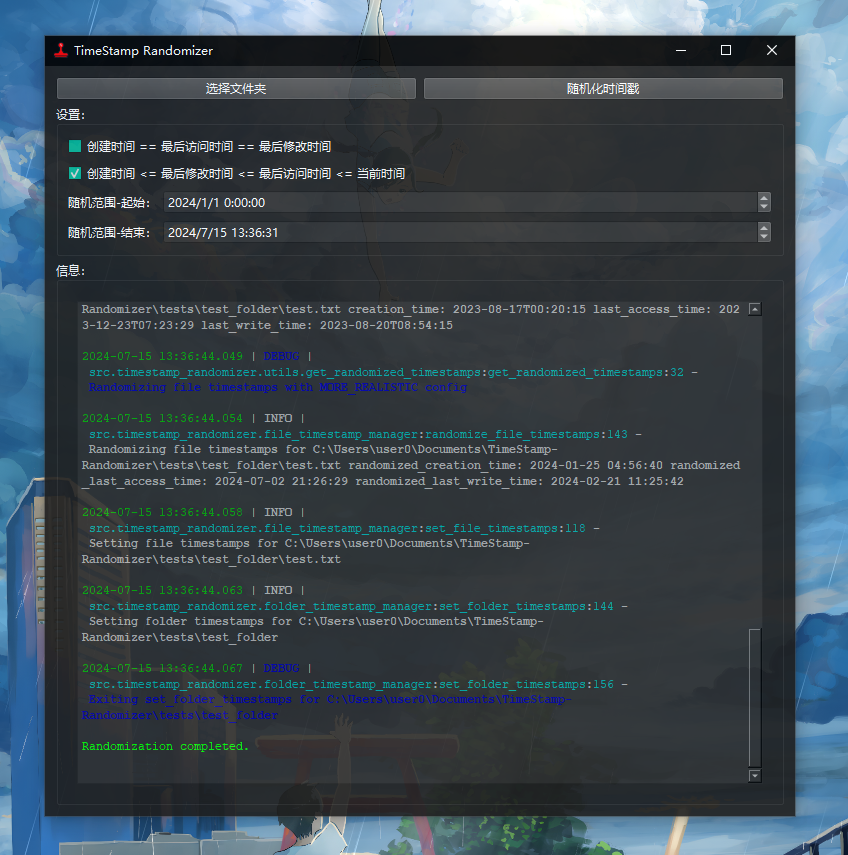
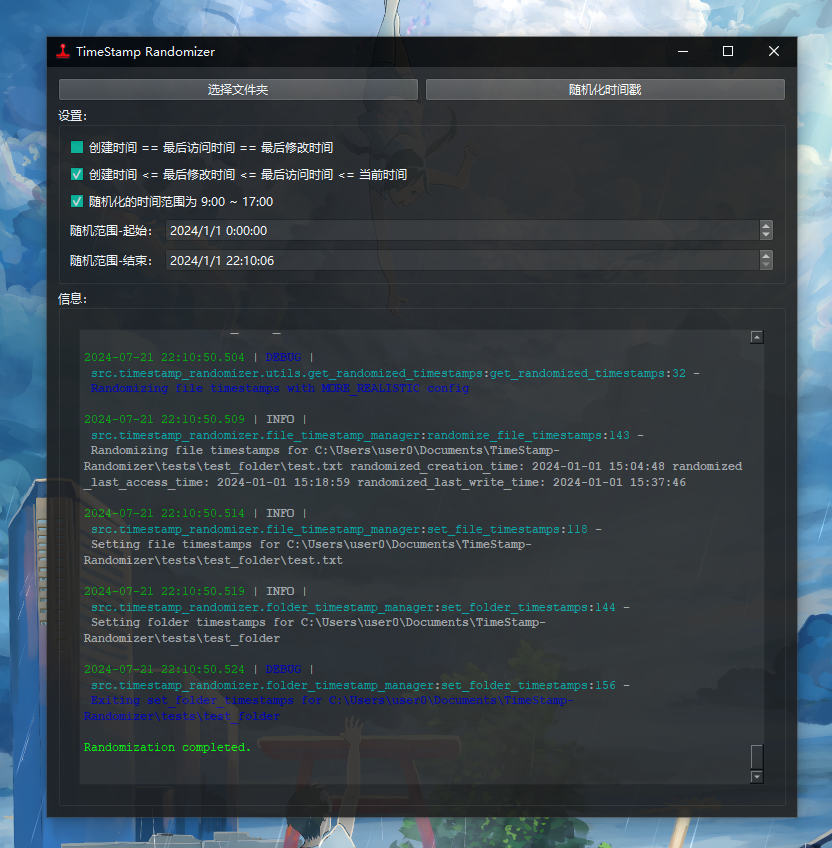
新增 可选设置 随机化的时间范围为 9:00 ~ 17:00（朝九晚五，规律作息）

Changed region(s): [[0.0, 0.0, 1.0, 1.0], [0.875, 0.8585, 0.9062, 0.9198], [0.875, 0.7358, 0.9062, 0.7665]]

diff --git a/src/gui/resources/Ui_timestamp_randomizer.py b/src/gui/resources/Ui_timestamp_randomizer.py
@@ -65,6 +65,12 @@ class Ui_Form(object):
 
         self.verticalLayout.addWidget(self.checkBox_more_realistic)
 
+        self.checkBox_nine_to_five = QCheckBox(self.groupBox_2)
+        self.checkBox_nine_to_five.setObjectName(u"checkBox_nine_to_five")
+        self.checkBox_nine_to_five.setChecked(True)
+
+        self.verticalLayout.addWidget(self.checkBox_nine_to_five)
+
         self.horizontalLayout_2 = QHBoxLayout()
         self.horizontalLayout_2.setObjectName(u"horizontalLayout_2")
         self.label = QLabel(self.groupBox_2)
@@ -131,6 +137,7 @@ class Ui_Form(object):
         self.groupBox_2.setTitle(QCoreApplication.translate("Form", u"\u8bbe\u7f6e\uff1a", None))
         self.checkBox_same_caw.setText(QCoreApplication.translate("Form", u"\u521b\u5efa\u65f6\u95f4 == \u6700\u540e\u8bbf\u95ee\u65f6\u95f4 == \u6700\u540e\u4fee\u6539\u65f6\u95f4", None))
         self.checkBox_more_realistic.setText(QCoreApplication.translate("Form", u"\u521b\u5efa\u65f6\u95f4 <= \u6700\u540e\u4fee\u6539\u65f6\u95f4 <= \u6700\u540e\u8bbf\u95ee\u65f6\u95f4 <= \u5f53\u524d\u65f6\u95f4", None))
+        self.checkBox_nine_to_five.setText(QCoreApplication.translate("Form", u"\u968f\u673a\u5316\u7684\u65f6\u95f4\u8303\u56f4\u4e3a 9:00 ~ 17:00", None))
         self.label.setText(QCoreApplication.translate("Form", u"\u968f\u673a\u8303\u56f4-\u8d77\u59cb\uff1a", None))
         self.dateTimeEdit_start_date.setDisplayFormat(QCoreApplication.translate("Form", u"yyyy/M/d H:mm:ss", None))
         self.label_2.setText(QCoreApplication.translate("Form", u"\u968f\u673a\u8303\u56f4-\u7ed3\u675f\uff1a", None))

diff --git a/src/timestamp_randomizer/utils/get_randomized_timestamps.py b/src/timestamp_randomizer/utils/get_randomized_timestamps.py
@@ -32,16 +32,13 @@ def get_randomized_timestamps(
         logger.debug("Randomizing file timestamps with MORE_REALISTIC config")
 
         now = datetime.now()
-        if start_date <= end_date <= now:
-            pass
-        if end_date > now:
-            end_date = now
-        if start_date > now:
-            start_date = now
-
+        creation_time: datetime = get_randomized_date(start_date, end_date)
         last_access_time: datetime = get_randomized_date(start_date, end_date)
-        last_write_time: datetime = get_randomized_date(start_date, last_access_time)
-        creation_time: datetime = get_randomized_date(start_date, last_write_time)
+        last_write_time: datetime = get_randomized_date(start_date, end_date)
+
+        creation_time, last_access_time, last_write_time, _ = sorted(
+            [creation_time, last_access_time, last_write_time, now]
+        )
     else:
         # 随机化所有时间戳
         creation_time: datetime = get_randomized_date(start_date, end_date)

diff --git a/src/timestamp_randomizer/utils/get_randomized_date.py b/src/timestamp_randomizer/utils/get_randomized_date.py
@@ -1,6 +1,8 @@
 import random
 from datetime import datetime, timedelta
 
+from ..config import RandomizeConfig
+
 
 def get_randomized_date(
     start_date: datetime = datetime(datetime.now().year, 1, 1, 0, 0, 0),
@@ -16,5 +18,14 @@ def get_randomized_date(
     seconds_between_date: int = abs(int((end_date - start_date).total_seconds()))
     random_seconds: int = random.randrange(seconds_between_date)
     random_date: datetime = start_date + timedelta(seconds=random_seconds)
+    if RandomizeConfig.NINE_TO_FIVE:
+        # 随机化的时间范围为 9:00 ~ 17:00
+        if random_date.hour < 9:
+            random_hour: int = random.randrange(max(9, start_date.hour), 17)
+        elif random_date.hour > 17:
+            random_hour: int = random.randrange(9, min(17, end_date.hour))
+        else:
+            random_hour: int = random_date.hour
+        random_date: datetime = random_date.replace(hour=random_hour)
     # logger.debug(f"Random date: {random_date}")
     return random_date

diff --git a/src/gui/main.py b/src/gui/main.py
@@ -35,6 +35,7 @@ class MainWindow(QWidget, Ui_Form):
         self.checkBox_more_realistic.stateChanged.connect(
             self.on_more_realistic_changed
         )
+        self.checkBox_nine_to_five.stateChanged.connect(self.on_nine_to_five_changed)
 
     def on_same_caw_changed(self):
         if self.checkBox_same_caw.isChecked():
@@ -52,6 +53,13 @@ class MainWindow(QWidget, Ui_Form):
         else:
             RandomizeConfig.MORE_REALISTIC = False
             self.init_end_date()
+
+    def on_nine_to_five_changed(self):
+        if self.checkBox_nine_to_five.isChecked():
+            # 随机化的时间范围为 9:00 ~ 17:00
+            RandomizeConfig.NINE_TO_FIVE = True
+        else:
+            RandomizeConfig.NINE_TO_FIVE = False
 
     def init_start_date(self):
         self.start_date: datetime = datetime(datetime.now().year, 1, 1, 0, 0, 0)

diff --git a/src/timestamp_randomizer/config.py b/src/timestamp_randomizer/config.py
@@ -5,3 +5,4 @@ from dataclasses import dataclass
 class RandomizeConfig:
     SAME_CAW: bool = False  # 创建时间 == 最后访问时间 == 最后修改时间
     MORE_REALISTIC: bool = True  # 创建时间 <= 最后修改时间 <= 最后访问时间 <= 当前时间
+    NINE_TO_FIVE: bool = True  # 随机化的时间范围为 9:00 ~ 17:00

diff --git a/README.md b/README.md
@@ -10,4 +10,5 @@
 - 会自动修正随机范围符合设置
 - 可选设置 创建时间==修改时间==访问时间（默认禁用）
 - 可选设置 创建时间<=修改时间<=访问时间<=当前时间（默认启用，更逼真）
+- 可选设置 随机化的时间范围为 9:00 ~ 17:00（朝九晚五，规律作息）
 - 可选设置 随机化范围（默认 当前年份）
